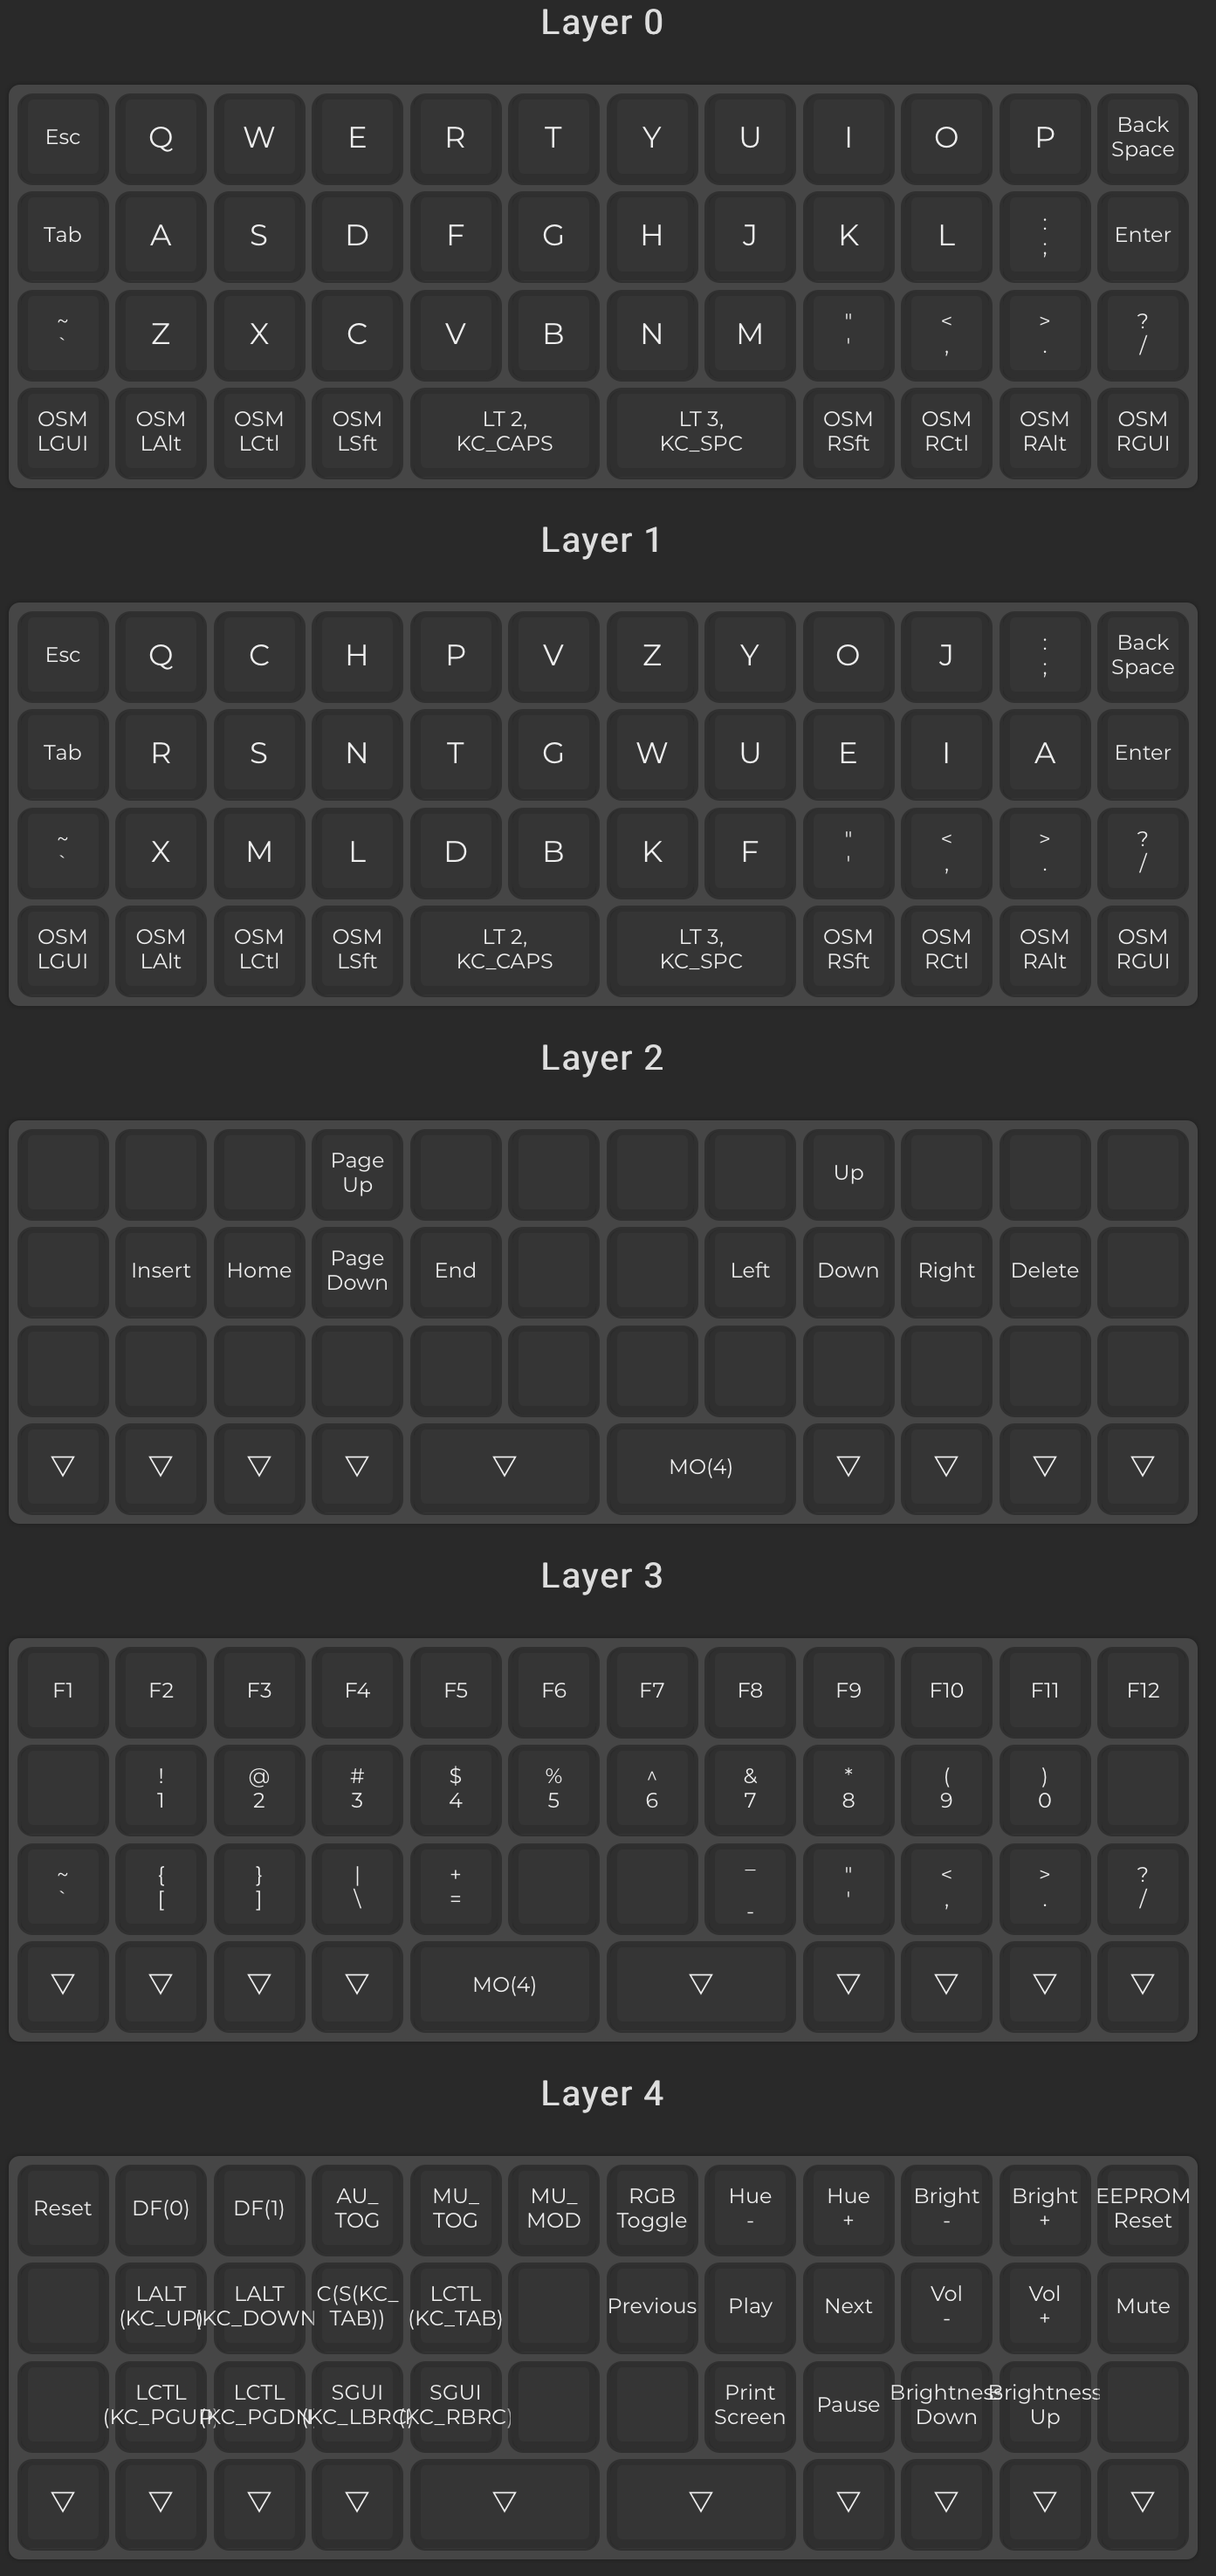
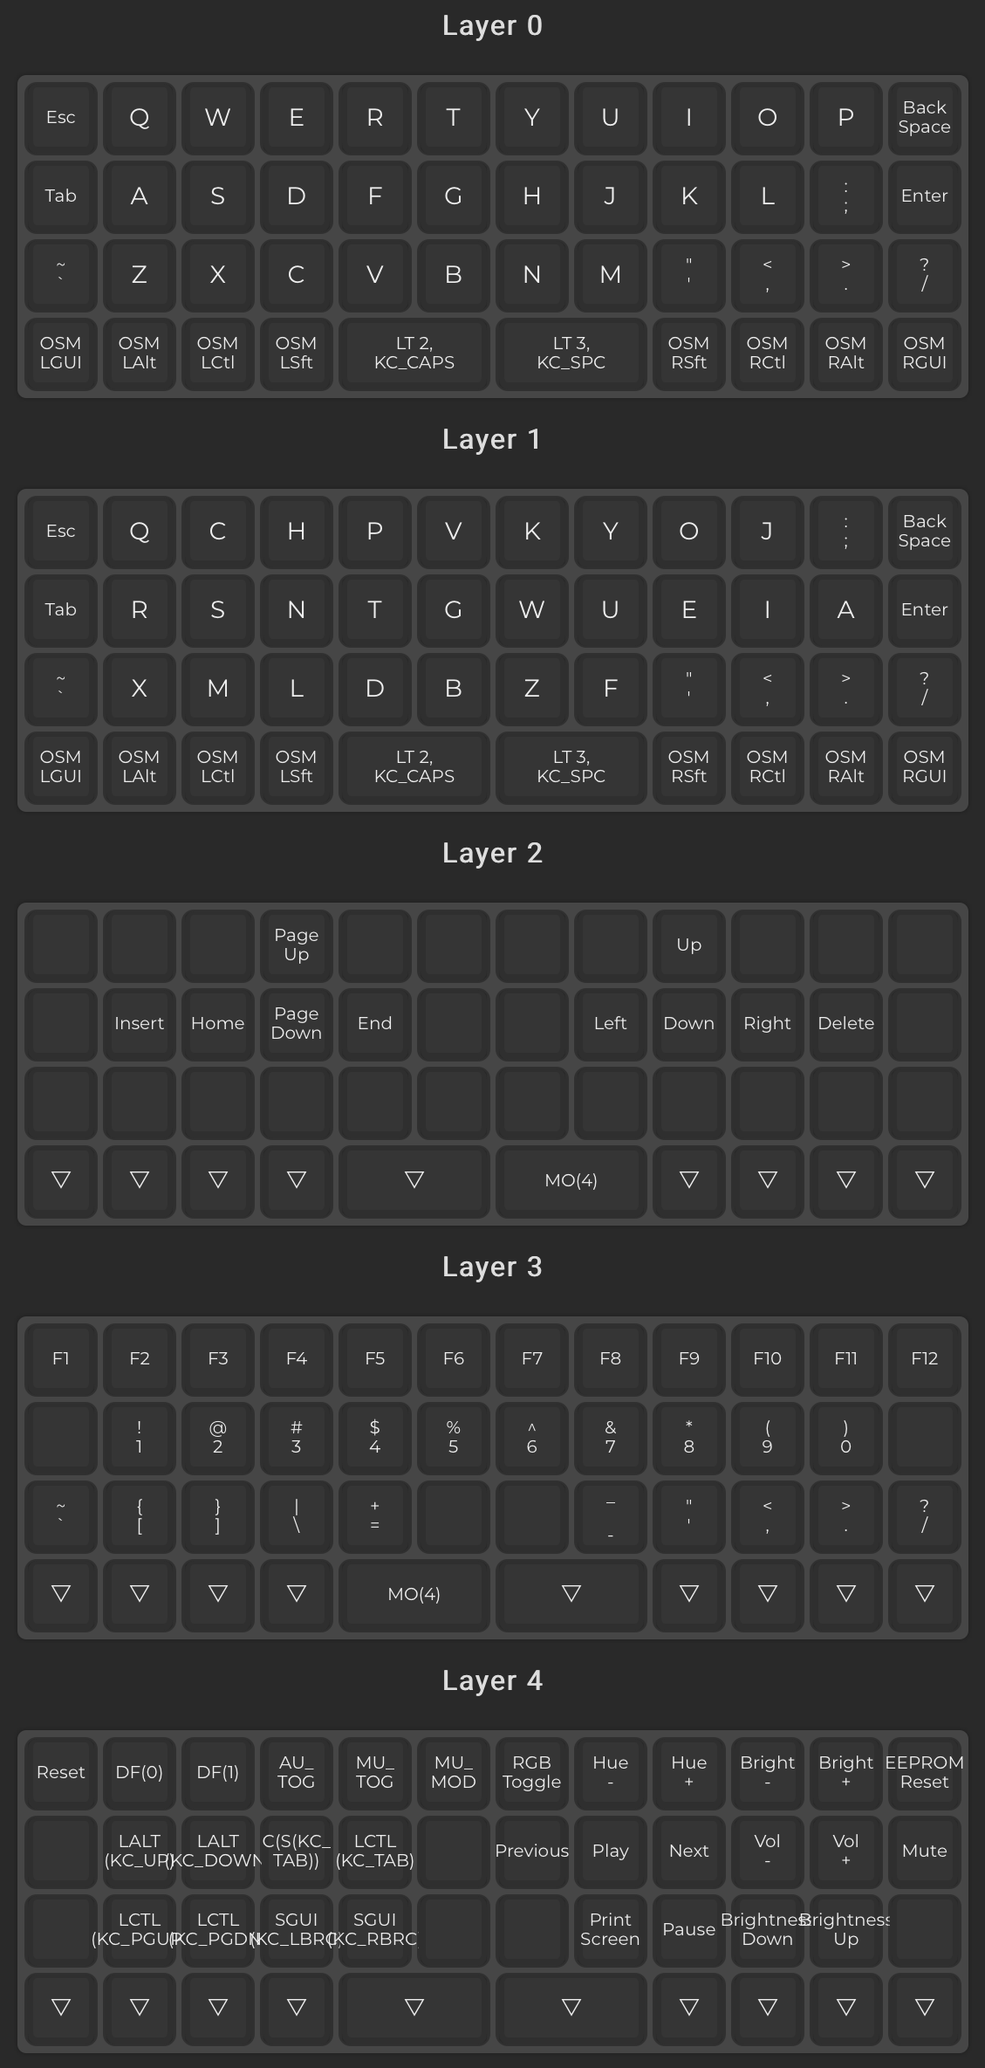
Swap KZ back to stock

diff --git a/keymap.c b/keymap.c
@@ -8,7 +8,7 @@
 
 const uint16_t PROGMEM keymaps[][MATRIX_ROWS][MATRIX_COLS] = {
 	[0] = LAYOUT_planck_2x2u(KC_ESC, KC_Q, KC_W, KC_E, KC_R, KC_T, KC_Y, KC_U, KC_I, KC_O, KC_P, KC_BSPC, KC_TAB, KC_A, KC_S, KC_D, KC_F, KC_G, KC_H, KC_J, KC_K, KC_L, KC_SCLN, KC_ENT, KC_GRV, KC_Z, KC_X, KC_C, KC_V, KC_B, KC_N, KC_M, KC_QUOT, KC_COMM, KC_DOT, KC_SLSH, OSM(MOD_LGUI), OSM(MOD_LALT), OSM(MOD_LCTL), OSM(MOD_LSFT), LT(2,KC_CAPS), LT(3,KC_SPC), OSM(MOD_RSFT), OSM(MOD_RCTL), OSM(MOD_RALT), OSM(MOD_RGUI)),
-	[1] = LAYOUT_planck_2x2u(KC_ESC, KC_Q, KC_C, KC_H, KC_P, KC_V, KC_Z, KC_Y, KC_O, KC_J, KC_SCLN, KC_BSPC, KC_TAB, KC_R, KC_S, KC_N, KC_T, KC_G, KC_W, KC_U, KC_E, KC_I, KC_A, KC_ENT, KC_GRV, KC_X, KC_M, KC_L, KC_D, KC_B, KC_K, KC_F, KC_QUOT, KC_COMM, KC_DOT, KC_SLSH, OSM(MOD_LGUI), OSM(MOD_LALT), OSM(MOD_LCTL), OSM(MOD_LSFT), LT(2,KC_CAPS), LT(3,KC_SPC), OSM(MOD_RSFT), OSM(MOD_RCTL), OSM(MOD_RALT), OSM(MOD_RGUI)),
+	[1] = LAYOUT_planck_2x2u(KC_ESC, KC_Q, KC_C, KC_H, KC_P, KC_V, KC_K, KC_Y, KC_O, KC_J, KC_SCLN, KC_BSPC, KC_TAB, KC_R, KC_S, KC_N, KC_T, KC_G, KC_W, KC_U, KC_E, KC_I, KC_A, KC_ENT, KC_GRV, KC_X, KC_M, KC_L, KC_D, KC_B, KC_Z, KC_F, KC_QUOT, KC_COMM, KC_DOT, KC_SLSH, OSM(MOD_LGUI), OSM(MOD_LALT), OSM(MOD_LCTL), OSM(MOD_LSFT), LT(2,KC_CAPS), LT(3,KC_SPC), OSM(MOD_RSFT), OSM(MOD_RCTL), OSM(MOD_RALT), OSM(MOD_RGUI)),
 	[2] = LAYOUT_planck_2x2u(KC_NO, KC_NO, KC_NO, KC_PGUP, KC_NO, KC_NO, KC_NO, KC_NO, KC_UP, KC_NO, KC_NO, KC_NO, KC_NO, KC_INS, KC_HOME, KC_PGDN, KC_END, KC_NO, KC_NO, KC_LEFT, KC_DOWN, KC_RGHT, KC_DEL, KC_NO, KC_NO, KC_NO, KC_NO, KC_NO, KC_NO, KC_NO, KC_NO, KC_NO, KC_NO, KC_NO, KC_NO, KC_NO, KC_TRNS, KC_TRNS, KC_TRNS, KC_TRNS, KC_TRNS, MO(4), KC_TRNS, KC_TRNS, KC_TRNS, KC_TRNS),
 	[3] = LAYOUT_planck_2x2u(KC_F1, KC_F2, KC_F3, KC_F4, KC_F5, KC_F6, KC_F7, KC_F8, KC_F9, KC_F10, KC_F11, KC_F12, KC_NO, KC_1, KC_2, KC_3, KC_4, KC_5, KC_6, KC_7, KC_8, KC_9, KC_0, KC_NO, KC_GRV, KC_LBRC, KC_RBRC, KC_BSLS, KC_EQL, KC_NO, KC_NO, KC_MINS, KC_QUOT, KC_COMM, KC_DOT, KC_SLSH, KC_TRNS, KC_TRNS, KC_TRNS, KC_TRNS, MO(4), KC_TRNS, KC_TRNS, KC_TRNS, KC_TRNS, KC_TRNS),
 	[4] = LAYOUT_planck_2x2u(RESET, DF(0), DF(1), AU_TOG, MU_TOG, MU_MOD, RGB_TOG, RGB_HUD, RGB_HUI, RGB_VAD, RGB_VAI, EEP_RST, KC_NO, LALT(KC_UP), LALT(KC_DOWN), C(S(KC_TAB)), LCTL(KC_TAB), KC_NO, KC_MPRV, KC_MPLY, KC_MNXT, KC_VOLD, KC_VOLU, KC_MUTE, KC_NO, LCTL(KC_PGUP), LCTL(KC_PGDN), SGUI(KC_LBRC), SGUI(KC_RBRC), KC_NO, KC_NO, KC_PSCR, KC_PAUS, KC_BRID, KC_BRIU, KC_NO, KC_TRNS, KC_TRNS, KC_TRNS, KC_TRNS, KC_TRNS, KC_TRNS, KC_TRNS, KC_TRNS, KC_TRNS, KC_TRNS)
